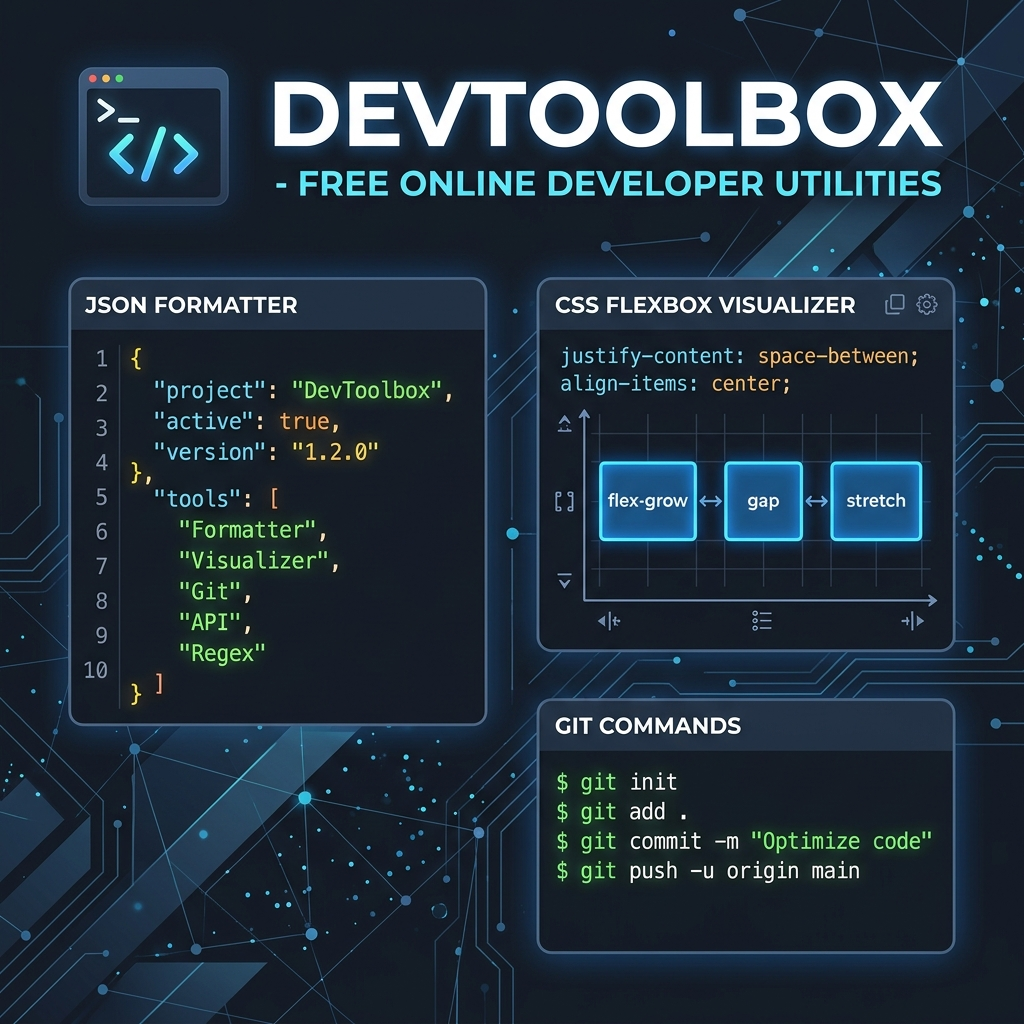
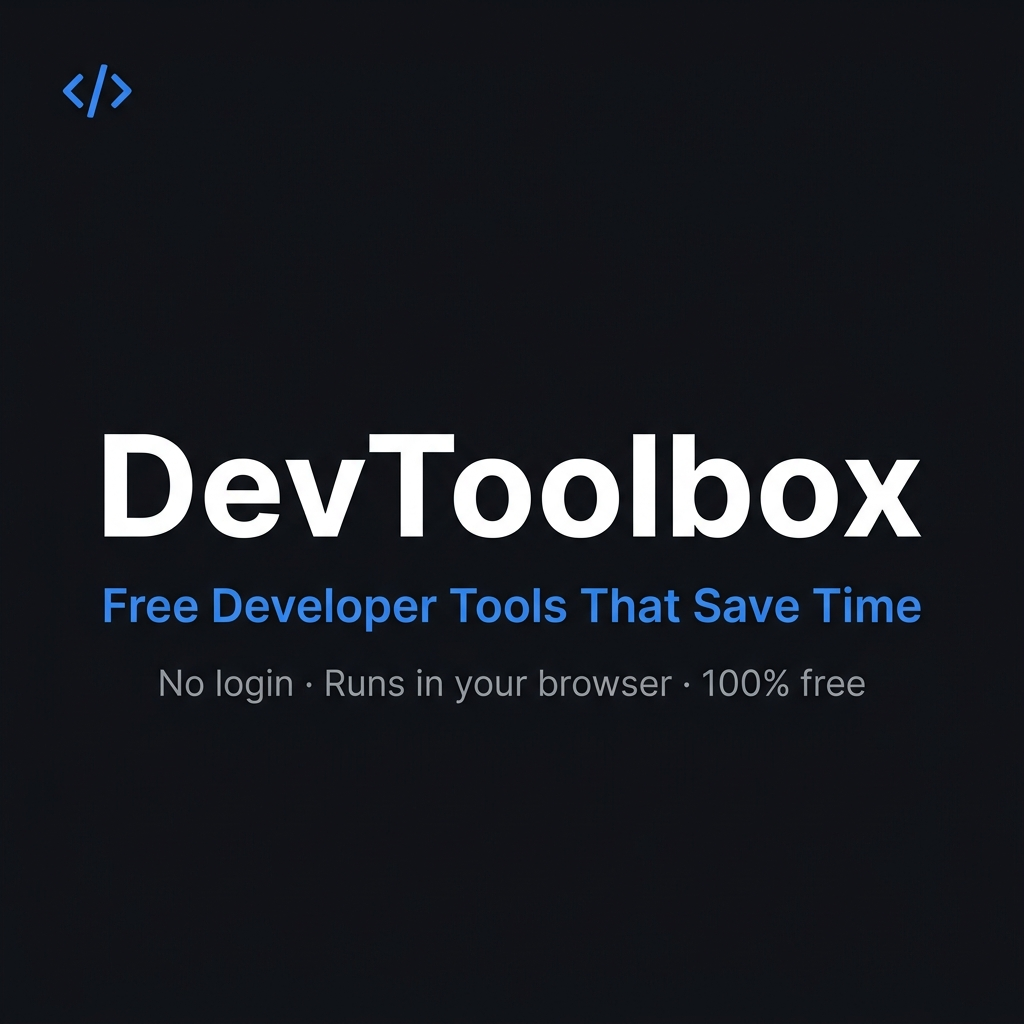
fix(seo): update canonical URLs, dynamic sitemaps, titles, and 301 redirects for tools

diff --git a/next.config.js b/next.config.js
@@ -33,6 +33,70 @@ const nextConfig = {
     formats: ['image/avif', 'image/webp'],
     deviceSizes: [640, 750, 828, 1080, 1200, 1920],
   },
+  async redirects() {
+    return [
+      {
+        source: '/json-formatter',
+        destination: '/tools/json-formatter',
+        permanent: true,
+      },
+      {
+        source: '/css-flexbox-generator',
+        destination: '/tools/css-flexbox-generator',
+        permanent: true,
+      },
+      {
+        source: '/git-command-builder',
+        destination: '/tools/git-command-builder',
+        permanent: true,
+      },
+      {
+        source: '/base64-encoder',
+        destination: '/tools/base64-encoder',
+        permanent: true,
+      },
+      {
+        source: '/color-converter',
+        destination: '/tools/color-converter',
+        permanent: true,
+      },
+      {
+        source: '/regex-tester',
+        destination: '/tools/regex-tester',
+        permanent: true,
+      },
+      {
+        source: '/uuid-generator',
+        destination: '/tools/uuid-generator',
+        permanent: true,
+      },
+      {
+        source: '/yaml-to-json',
+        destination: '/tools/yaml-to-json',
+        permanent: true,
+      },
+      {
+        source: '/css-grid-generator',
+        destination: '/tools/css-grid-generator',
+        permanent: true,
+      },
+      {
+        source: '/markdown-editor',
+        destination: '/tools/markdown-editor',
+        permanent: true,
+      },
+      {
+        source: '/jwt-decoder',
+        destination: '/tools/jwt-decoder',
+        permanent: true,
+      },
+      {
+        source: '/diff-checker',
+        destination: '/tools/diff-checker',
+        permanent: true,
+      },
+    ];
+  },
   async headers() {
     return [
       {

diff --git a/app/about/layout.tsx b/app/about/layout.tsx
@@ -1,14 +1,14 @@
 import type { Metadata } from 'next';
 
-const baseUrl = process.env.NEXT_PUBLIC_SITE_URL || 'https://devtoolbox.io';
+const baseUrl = process.env.NEXT_PUBLIC_SITE_URL || 'https://dev-tool-box-eight.vercel.app';
 
 export const metadata: Metadata = {
-  title: 'About DevToolbox — Built for Developers',
+  title: 'About — Built for Developers',
   description:
     'DevToolbox is a free, privacy-first collection of developer utilities that run entirely in your browser. No login, no tracking, no ads — just tools that work.',
   keywords: ['about devtoolbox', 'developer tools website', 'free dev utilities', 'privacy first tools'],
   openGraph: {
-    title: 'About DevToolbox — Built for Developers',
+    title: 'About',
     description: 'Learn about DevToolbox — fast, free, privacy-first developer tools that run in your browser.',
     url: `${baseUrl}/about`,
     type: 'website',
@@ -17,7 +17,7 @@ export const metadata: Metadata = {
   },
   twitter: {
     card: 'summary_large_image',
-    title: 'About DevToolbox',
+    title: 'About',
     description: 'Free, privacy-first developer tools that run in your browser.',
     images: [`${baseUrl}/og-image.png`],
   },

diff --git a/app/blog/layout.tsx b/app/blog/layout.tsx
@@ -1,14 +1,14 @@
 import type { Metadata } from 'next';
 
-const baseUrl = process.env.NEXT_PUBLIC_SITE_URL || 'https://devtoolbox.io';
+const baseUrl = process.env.NEXT_PUBLIC_SITE_URL || 'https://dev-tool-box-eight.vercel.app';
 
 export const metadata: Metadata = {
-  title: 'Blog — Developer Tutorials & Guides | DevToolbox',
+  title: 'Blog — Developer Tutorials & Guides',
   description:
     'Tutorials, guides, and tips for web developers. Learn about CSS layouts, git workflows, JSON handling, regex patterns, and more.',
   keywords: ['developer blog', 'web development tutorials', 'css guides', 'git tutorials', 'javascript tips'],
   openGraph: {
-    title: 'DevToolbox Blog — Developer Tutorials & Guides',
+    title: 'Blog — Developer Tutorials & Guides | DevToolbox',
     description: 'Tutorials, guides, and tips for web developers. Learn CSS, git, JSON, regex, and more.',
     url: `${baseUrl}/blog`,
     type: 'website',
@@ -17,7 +17,7 @@ export const metadata: Metadata = {
   },
   twitter: {
     card: 'summary_large_image',
-    title: 'DevToolbox Blog — Developer Tutorials & Guides',
+    title: 'Blog — Developer Tutorials & Guides | DevToolbox',
     description: 'Tutorials, guides, and tips for web developers.',
     images: [`${baseUrl}/og-image.png`],
   },

diff --git a/app/privacy-policy/page.tsx b/app/privacy-policy/page.tsx
@@ -2,10 +2,10 @@ import Link from 'next/link';
 import { ArrowLeft, Shield } from 'lucide-react';
 
 export const metadata = {
-  title: 'Privacy Policy — DevToolbox',
+  title: 'Privacy Policy',
   description: 'Our privacy commitments and details about data handling for DevToolbox.',
   alternates: {
-    canonical: `${process.env.NEXT_PUBLIC_SITE_URL}/privacy-policy`,
+    canonical: `${process.env.NEXT_PUBLIC_SITE_URL || 'https://dev-tool-box-eight.vercel.app'}/privacy-policy`,
   },
 };
 

diff --git a/app/terms-of-service/page.tsx b/app/terms-of-service/page.tsx
@@ -2,10 +2,10 @@ import Link from 'next/link';
 import { ArrowLeft, FileText } from 'lucide-react';
 
 export const metadata = {
-  title: 'Terms of Service — DevToolbox',
+  title: 'Terms of Service',
   description: 'Terms of Service policy for using the free web utility tools at DevToolbox.',
   alternates: {
-    canonical: `${process.env.NEXT_PUBLIC_SITE_URL}/terms-of-service`,
+    canonical: `${process.env.NEXT_PUBLIC_SITE_URL || 'https://dev-tool-box-eight.vercel.app'}/terms-of-service`,
   },
 };
 

diff --git a/app/layout.tsx b/app/layout.tsx
@@ -8,7 +8,7 @@ import { Toaster } from '@/components/ui/sonner';
 
 const inter = Inter({ subsets: ['latin'], display: 'swap' });
 
-const baseUrl = process.env.NEXT_PUBLIC_SITE_URL || 'https://devtoolbox.io';
+const baseUrl = process.env.NEXT_PUBLIC_SITE_URL || 'https://dev-tool-box-eight.vercel.app';
 
 const websiteSchema = {
   '@context': 'https://schema.org',

diff --git a/app/page.tsx b/app/page.tsx
@@ -1,7 +1,7 @@
 import type { Metadata } from 'next';
 import { HomeContent } from './HomeContent';
 
-const baseUrl = process.env.NEXT_PUBLIC_SITE_URL || 'https://devtoolbox.io';
+const baseUrl = process.env.NEXT_PUBLIC_SITE_URL || 'https://dev-tool-box-eight.vercel.app';
 
 export const metadata: Metadata = {
   title: 'DevToolbox — Free Online Developer Tools (No Login)',

diff --git a/app/robots.ts b/app/robots.ts
@@ -1,7 +1,7 @@
 import type { MetadataRoute } from 'next';
 
 export default function robots(): MetadataRoute.Robots {
-  const base = process.env.NEXT_PUBLIC_SITE_URL || 'https://devtoolbox.io';
+  const base = process.env.NEXT_PUBLIC_SITE_URL || 'https://dev-tool-box-eight.vercel.app';
   return {
     rules: [
       {

diff --git a/app/sitemap.ts b/app/sitemap.ts
@@ -3,7 +3,7 @@ import { tools } from '@/lib/tools-data';
 import { blogPosts } from '@/lib/blog-data';
 
 export default function sitemap(): MetadataRoute.Sitemap {
-  const base = process.env.NEXT_PUBLIC_SITE_URL || 'https://devtoolbox.io';
+  const base = process.env.NEXT_PUBLIC_SITE_URL || 'https://dev-tool-box-eight.vercel.app';
   const now = new Date();
 
   const staticPages: MetadataRoute.Sitemap = [

diff --git a/app/tools/layout.tsx b/app/tools/layout.tsx
@@ -1,6 +1,6 @@
 import type { Metadata } from 'next';
 
-const baseUrl = process.env.NEXT_PUBLIC_SITE_URL || 'https://devtoolbox.io';
+const baseUrl = process.env.NEXT_PUBLIC_SITE_URL || 'https://dev-tool-box-eight.vercel.app';
 
 export const metadata: Metadata = {
   title: 'All Developer Tools — Free Online Utilities | DevToolbox',

diff --git a/components/ToolPageLayout.tsx b/components/ToolPageLayout.tsx
@@ -47,7 +47,7 @@ function FaqItem({ question, answer, toolName }: { question: string; answer: str
 }
 
 export function ToolPageLayout({ tool, children }: ToolPageLayoutProps) {
-  const baseUrl = process.env.NEXT_PUBLIC_SITE_URL || 'https://devtoolbox.io';
+  const baseUrl = process.env.NEXT_PUBLIC_SITE_URL || 'https://dev-tool-box-eight.vercel.app';
   const relatedTools = getRelatedTools(tool.relatedTools || []);
 
   // Track tool opened

diff --git a/lib/metadata.ts b/lib/metadata.ts
@@ -1,7 +1,7 @@
 import type { Metadata } from 'next';
 import { Tool } from './tools-data';
 
-const baseUrl = process.env.NEXT_PUBLIC_SITE_URL || 'https://devtoolbox.io';
+const baseUrl = process.env.NEXT_PUBLIC_SITE_URL || 'https://dev-tool-box-eight.vercel.app';
 
 export function generateToolMetadata(tool: Tool): Metadata {
   const title = `${tool.name} — Free Online Tool | DevToolbox`;